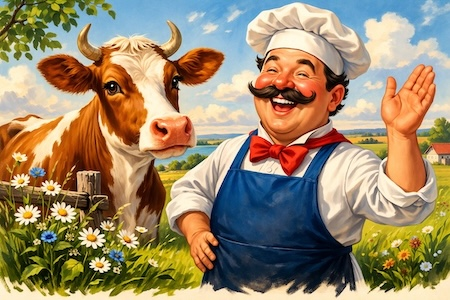
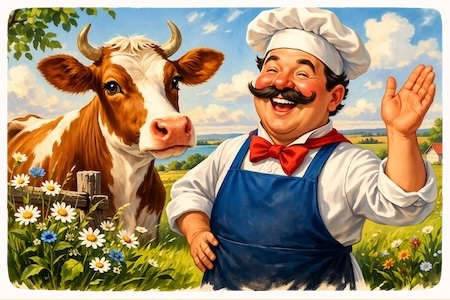
milkman & weather images update

Changed region(s): [[0.0, 0.0, 1.0, 1.0]]

diff --git a/commands/milkman.js b/commands/milkman.js
@@ -23,7 +23,7 @@ const sendMilkMessage = async (ctx) => {
         text: messageText,
         accountId: homeChatId,
         fileType: 'photo',
-        filePath: `./assets/milkman/${isWinter() ? 'winter' : 'summer'}.png`,
+        filePath: `./assets/milkman/${isWinter() ? 'winter' : 'summer'}.jpeg`,
         buttons: {}
     });
 };
